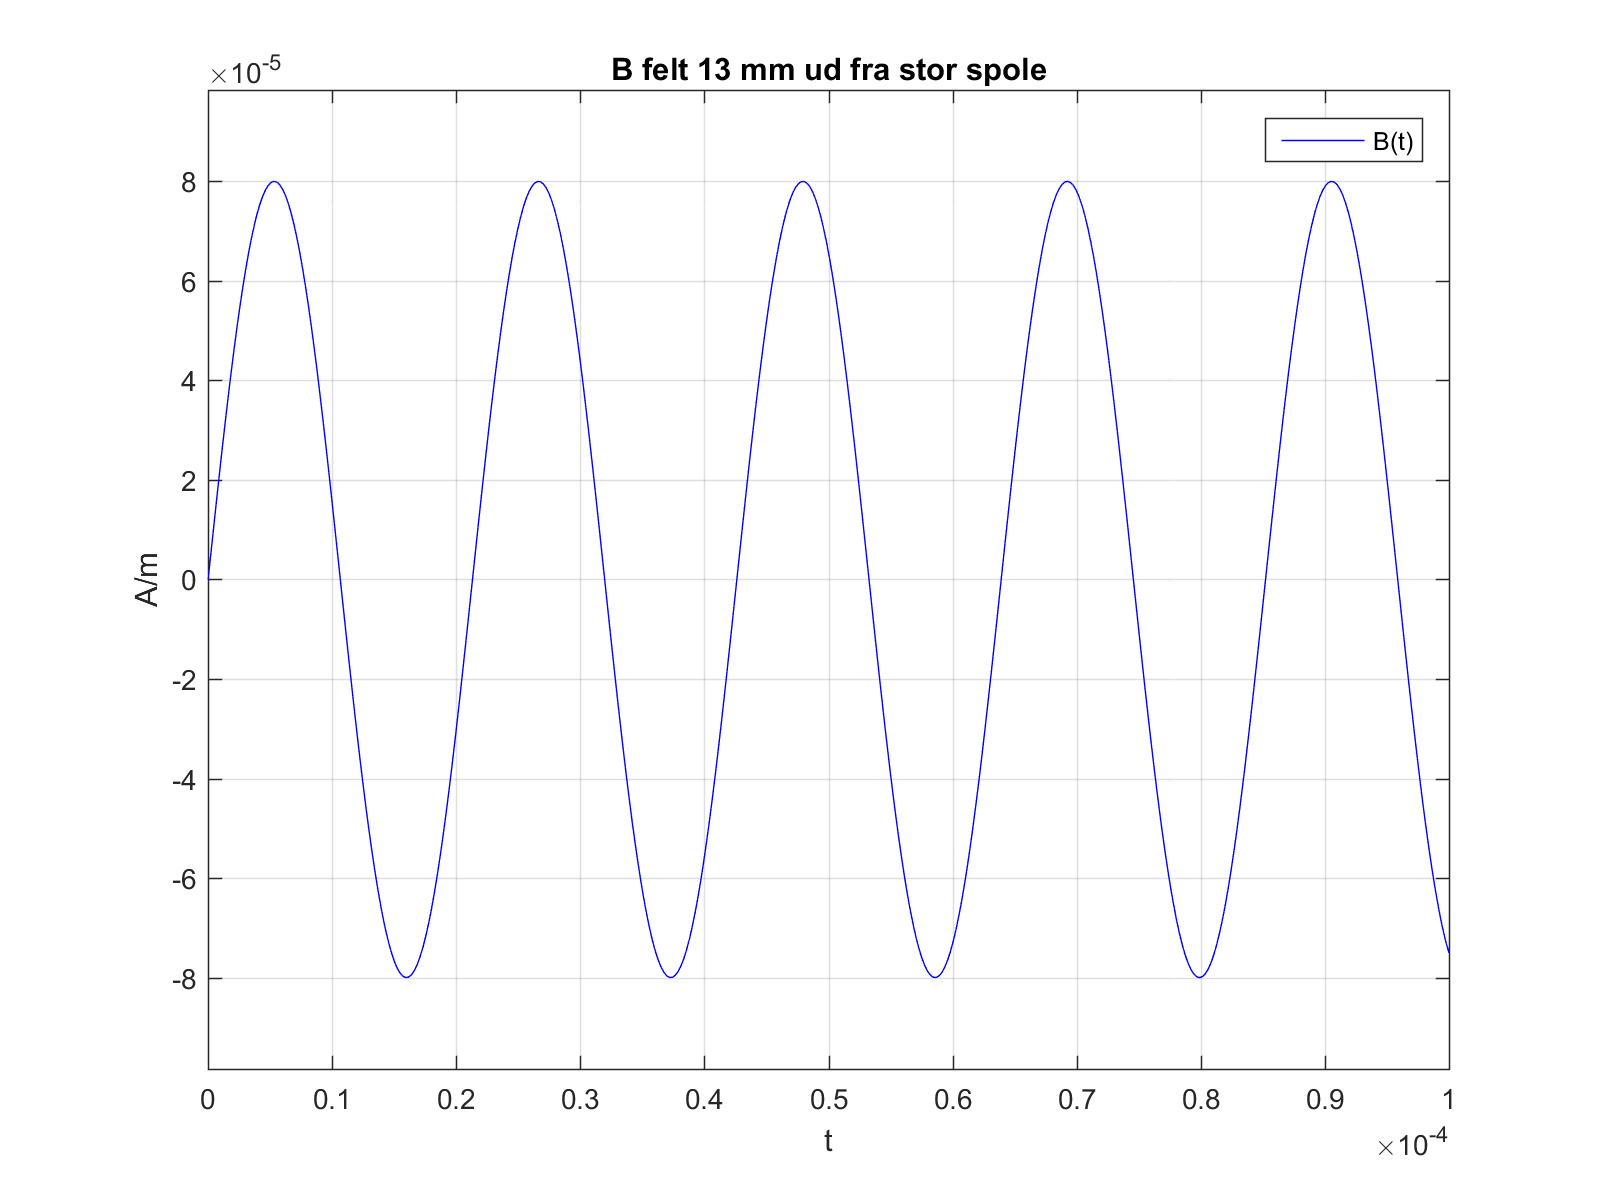
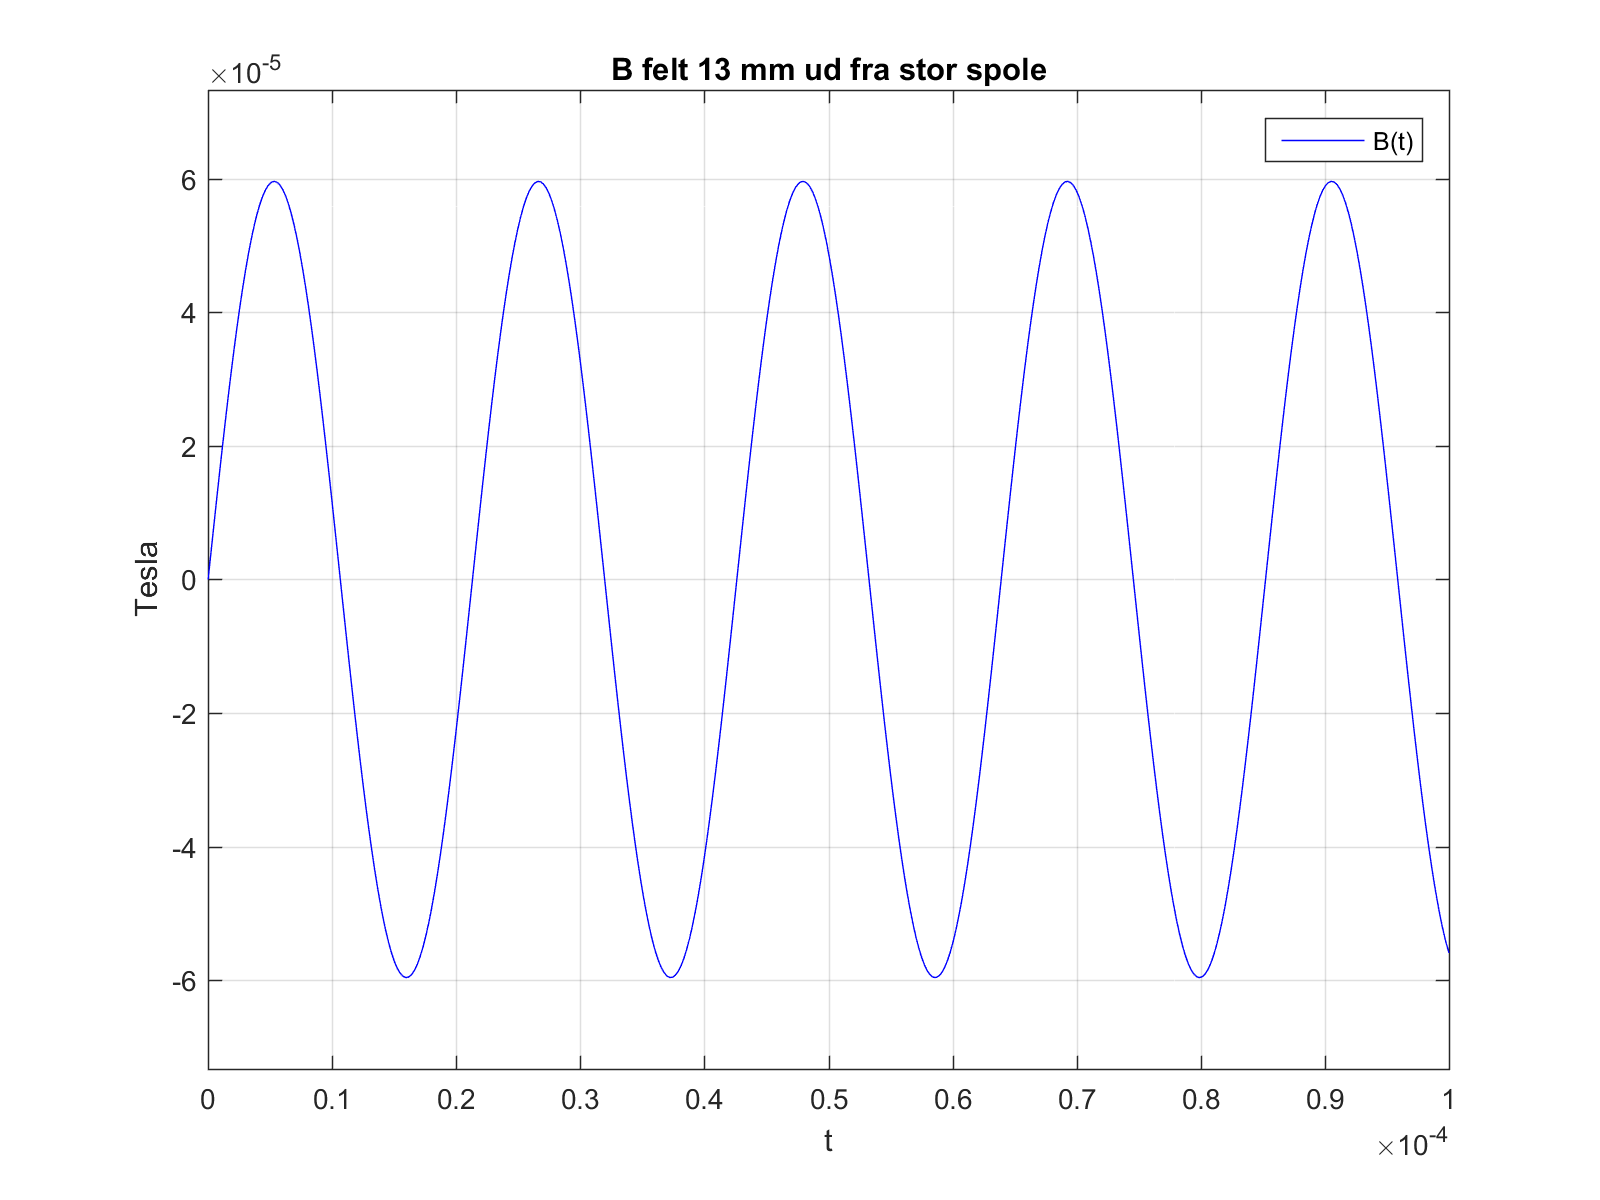
rettet fejl hist og her

Changed region(s): [[0.0625, 0.4625, 0.0938, 0.5242], [0.0938, 0.8017, 0.125, 0.8325], [0.0938, 0.7092, 0.125, 0.74]]

diff --git a/section/spoledesign.tex b/section/spoledesign.tex
@@ -217,7 +217,7 @@ Hvor
 \end{align}
 
 \begin{align}
-	& \mu_0 = \text{Permabilitetskonstant som er givet ved $4\pi 10^-7\henry/\meter$} \nonumber
+	& \mu_0 = \text{Permabilitetskonstant som er givet ved $4\pi 10^{-7}\henry/\meter$} \nonumber
 \end{align}
 
 \begin{align}
@@ -227,25 +227,25 @@ Hvor
 
 
 \subsection{Resultater}
-I følgende afsnit vil den teoretiske del blive anvendt, til at finde de værdier, der bliver brugt i spoledesignet.\\
+I følgende afsnit er den teoretiske del blevet anvendt, til at finde de værdier, der bliver brugt i spoledesignet.\\
 Derudover, vil målinger foretaget med et oscilloskop blive analyseret og teorien eftervist.\\ 
 Tykkelsen på kobbertråden, vælges meget tynd af flere grunde.
 Én af grundene, er pga. plads, men som udangspunkt dimensioneret ud fra afsnit \ref{Sec_skineff.}. \\
 Der ønskes en så lav modstand som muligt.  
 Dette gælder både for den store, og de små spoler.\\
 Med hensyn til det fysiske design af spolehuset, henvises til afsnit\husk{Simon}{Indsæt henvisning}
-Et fuldstændigt overblik over alle værdier for spolerne,som er dimensioneret ud fra teorien, findes herunder.
+Et fuldstændigt overblik over alle værdier for spolerne, som er dimensioneret ud fra teorien, findes herunder.
 \begin{align}
-&i=0.05\cdot sin(2pi\cdot 46936\cdot t) \nonumber
+&i=0.05\cdot \sin{(2pi\cdot 46936\cdot t)} \nonumber
 \end{align}
 \begin{align}
-&\mu_0 =4\pi 10^{-7} \nonumber
-\end{align}
-\begin{align}
-&\mu_r =1 \nonumber
+&\mu_0 =4\pi 10^{-7}T\cdot \m/A \nonumber
 \end{align}
 \begin{align}
 &l = 0.01\m \nonumber
+\end{align}
+\begin{align}
+&\text{Trådtykkelse} = 0.25\mm \nonumber
 \end{align}
 \begin{align}
 &N_1=63\nonumber
@@ -286,10 +286,10 @@ Signalet i denne, skal derfor være forholdsvis kraftigt, dermed også B feltet.
 I figur \ref{fig:EMF_stor_spole}, ses en graf der viser spænding som funktion af tiden i den store spole. se ligning \ref{eq:ldidt}, hvor $i$ er givet ved: 
 
 \begin{align}
-&i=0.05\cdot sin(2pi\cdot 46936\cdot t)
+&i=0.05\cdot \sin{(2pi\cdot 46936\cdot t)}
 \end{align}
-Frekvensen og peakstrømmen er dimensioneret ud fra afsnit. \husk{Simon}{Ref til Frekv. generator}
-Her ses en induceret spænding med en peak to peak på ca. 6\volt. Denne graf er plottet ud fra ligning
+Frekvensen og peakstrømmen er dimensioneret ud fra afsnit \ref{sec:Frev_gen} \\
+Her ses en induceret spænding med en peak to peak på ca. 6\volt.
 \subsubsection{Lille spole}
 \begin{figure}[h!]
 	\centering
@@ -303,32 +303,13 @@ Her ses en induceret spænding med en peak to peak på ca. 6\volt. Denne graf er
 
 
 \husk{Simon}{Juster billeder}
-Hvor $0.05$ er peakstrømmen målt i Ampere, og $47048$ er frekvensen i $Hz$.\\
 
-For at plotte spændingen overført i den lille spole, bruges ligning \ref{eq:emf_lille_spole}. Plottet af denne ses i figur \ref{fig:EMF_lille_spole}. Her ses ca. en halvering i spænding. Alle data brugt i udregningerne ses i tabel ***
- \husk{Simon}{indsæt tabel over data}
+
 
  
-\subsection{Simluering}
-I dette underafsnit bliver teorien simuleret.
-Dette gøres vha. simuleringsprogrammet Comspol.
-Der vil derudover blive gjort rede og kommenteret på hver figur. 
-\\
-I simuleringen skal der tages højde for, at strømmen $i$ er givet ved et sinussignal, og ikke et firkantsignal, som det er i det virkelige system.
-Da det er komplekst at simulere et firkantsignal i Comsol, vil dette ikke blive gjort. Det kan dog godt forsvares, ved at sammenligne resultaterne med tabel *** \husk{Simon}{indsæt tabel over resultater}
 
-\begin{figure}[h!]
-	\centering
-	\includegraphics[width=.8\textwidth]{billeder/Comsol_B_field_begge.png}
-	\caption{Magnetfeltet simuleret 13 $\mm$ ud fra stor spole, i ligeposition}
-	\label{fig:B_Comsol_begge}
-\end{figure}
-\begin{figure}[h!]
-	\centering
-	\includegraphics[width=.8\textwidth]{billeder/Comsol_B_field.png}
-	\caption{Magnetfeltet simuleret 13 $\mm$ ud fra stor spole, ved fuld overlappelse}
-	\label{fig:B_Comsol}
-\end{figure}
+
+
 
 
 

diff --git a/section/Circuit.tex b/section/Circuit.tex
@@ -55,7 +55,7 @@ Af brugbare signaler findes der firkant, trekant og sinus signaler.
 
 ...
 
-\subsection{Frekvensgenerator}
+\subsection{Frekvensgenerator}\label{sec:Frev_gen}
 \husk{Kenneth}{Billede af output fra frekvensgenerator}
 \subsubsection{Design}
 Til at genererer et signal ud fra batterierne anvendes en timer kreds. 
